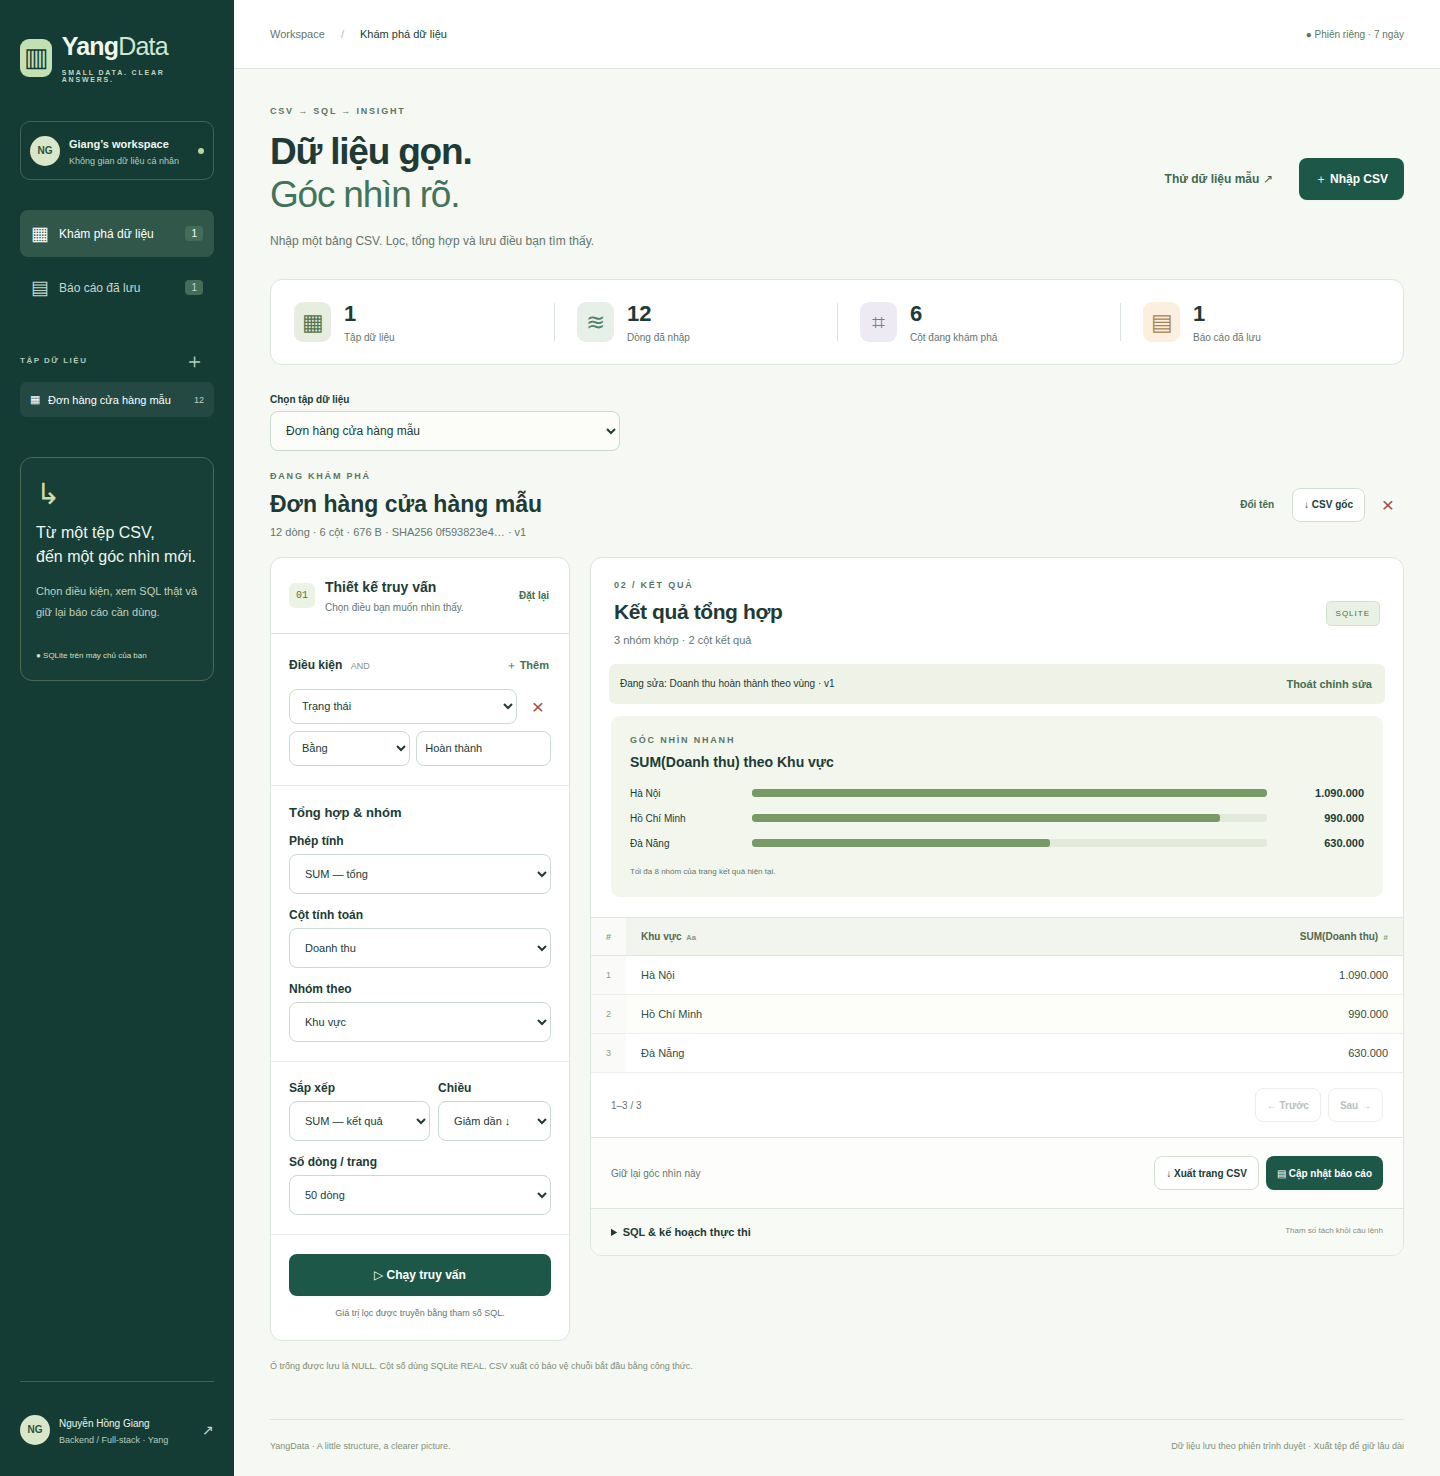
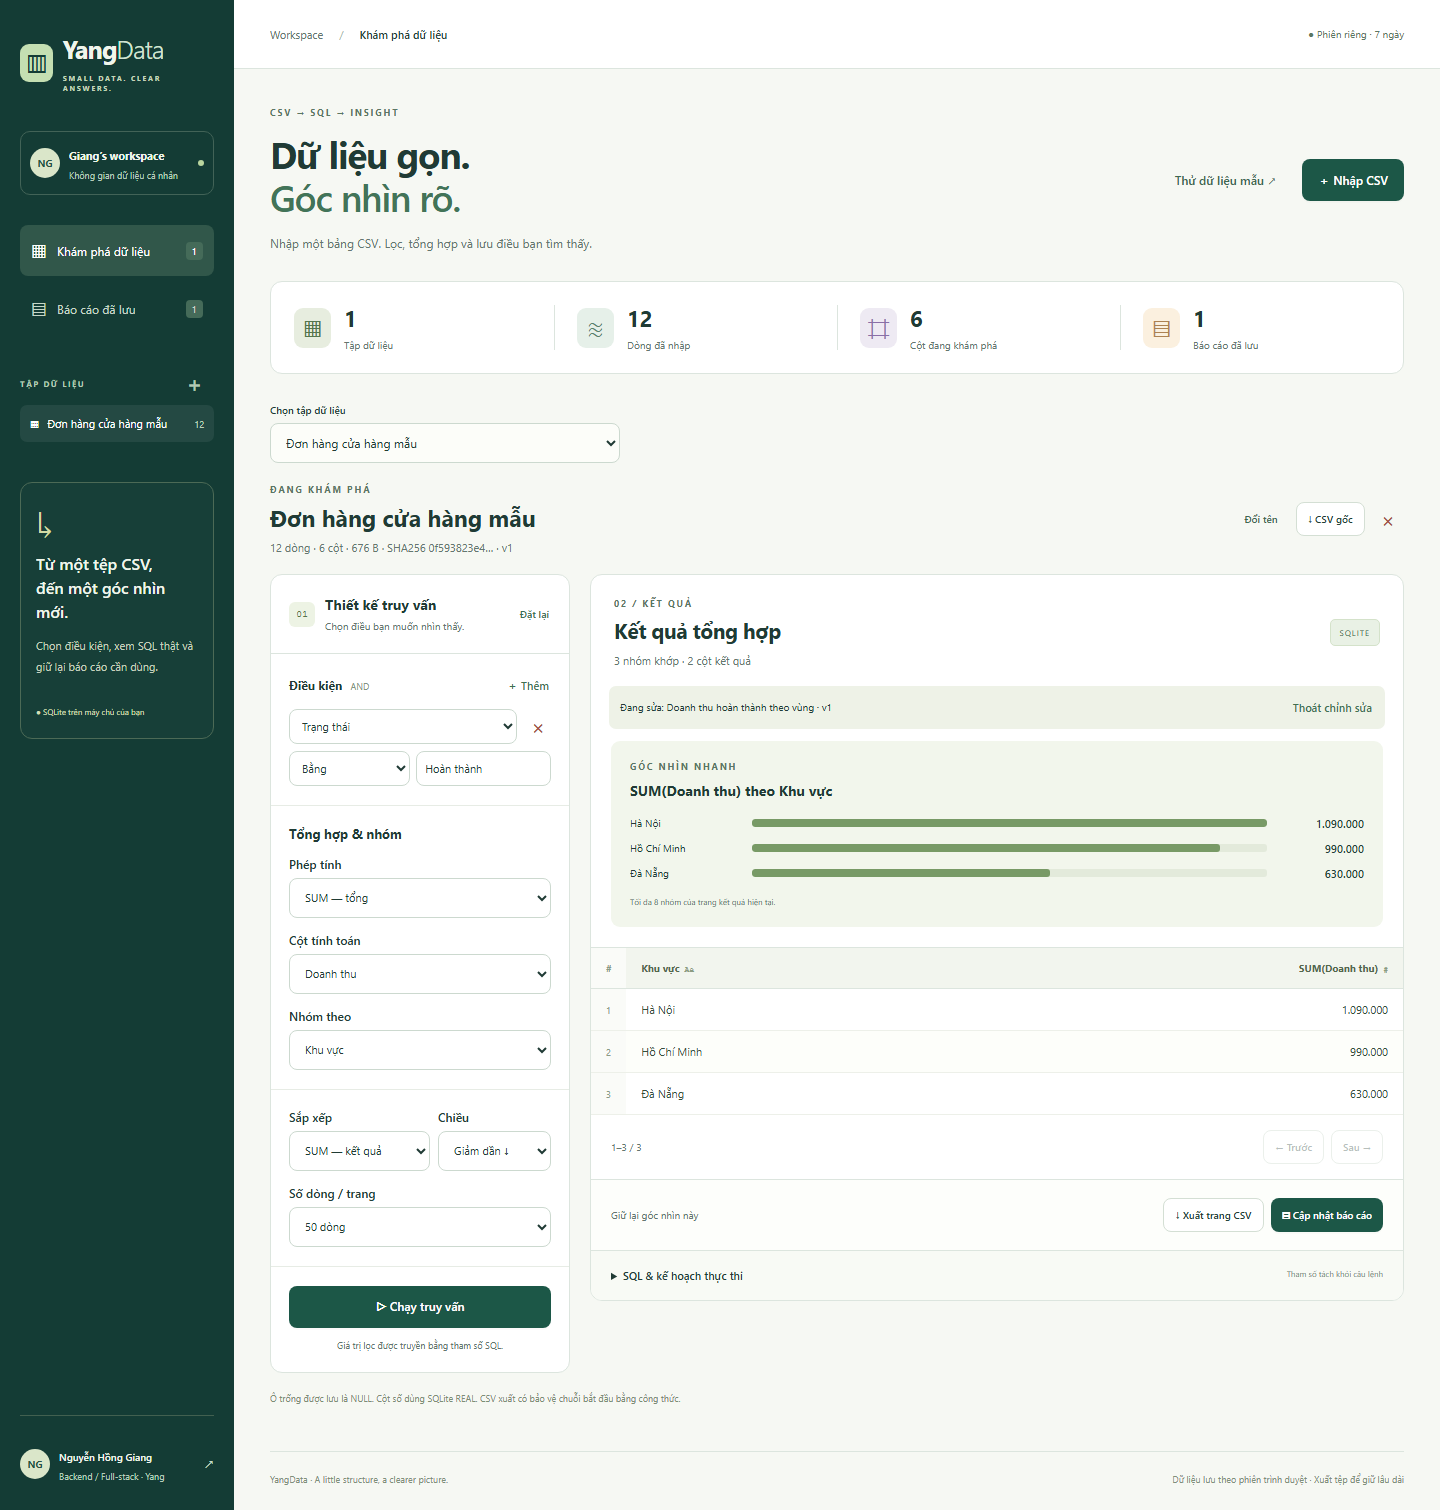
docs: extract standalone repository with preserved source history

diff --git a/docs/repository-migration.md b/docs/repository-migration.md
@@ -1,0 +1,70 @@
+# Repository migration — 04/11/2026
+
+## Source and destination
+
+- Source repository: [nguyenhonggiang2407/DTDD](https://github.com/nguyenhonggiang2407/DTDD).
+- Source branch: [`yangdata`](https://github.com/nguyenhonggiang2407/DTDD/tree/yangdata).
+- Source commit: [`587b812b5f74e5501e5acbcf45d17c10811d2389`](https://github.com/nguyenhonggiang2407/DTDD/commit/587b812b5f74e5501e5acbcf45d17c10811d2389).
+- Source tree: `9373ff46a668c5a73eb176bc2a118616a4bffc1c`; nine reachable commits before migration.
+- Destination: [nguyenhonggiang2407/YangData](https://github.com/nguyenhonggiang2407/YangData), branch `main`.
+
+The extraction used `git clone --single-branch --branch yangdata`, with complete
+reachable history rather than a shallow clone. The local branch was renamed to
+`main`, and the source remote to `upstream`. No source branch, commit, data or
+repository was deleted or rewritten. Publishing uses an ordinary push to the new
+repository; the original DTDD branch remains available.
+
+## Preservation and migration changes
+
+The source commit remains an ancestor. Its original commit objects, authors,
+dates and messages are retained. Before committing migration work, `git diff`
+confirmed no change in `lib/`, `public/`, `test/`, `server.mjs`, dependency manifests,
+Dockerfile, Compose, LICENSE, NOTICE or `upstream/`.
+
+The MIT license blob remains `84ee68d33c9b68bae6c139f591996f021a02b23a` and NOTICE
+remains `9d6b7aaf839f30b3cdcca827d24cdf5ea37172c1`. The original patchy631 attribution,
+reference snapshot and preserved SQL-tool reference are unchanged. Read [NOTICE](../NOTICE.md)
+for the distinction between reference material and YangData implementation.
+
+Migration changes are limited to README clone/current-repository and CI links,
+workflow branch filters targeting `main`, this record and screenshots from browser
+verification. Historical/source-proof links continue to point to their original
+location. The README documents the same query grammar, database and limits.
+The existing CI retains backend, browser, Docker health and screenshot checks.
+
+History can be checked after publication:
+
+```sh
+git merge-base --is-ancestor 587b812b5f74e5501e5acbcf45d17c10811d2389 main
+git cat-file -t 587b812b5f74e5501e5acbcf45d17c10811d2389
+git diff 587b812b5f74e5501e5acbcf45d17c10811d2389 main -- lib public test server.mjs package.json package-lock.json LICENSE NOTICE.md upstream
+```
+
+The first command should return 0; the second should return `commit`; the final
+command should show no business-source, dependency or attribution change from extraction.
+
+## Validation evidence
+
+- Baseline at the exact source SHA: 35 backend/domain/store/HTTP tests passed on
+  Node.js 24.19.0 during the 03/11/2026 audit. They are not rerun here merely for
+  documentation changes; the new repository CI is configured to run them again.
+- In the extracted repository on 04/11/2026, `npm ci` succeeded and reported zero
+  dependency advisories at installation time.
+- `npm run test:ui` passed all six Chromium tests against the real local server and
+  in-memory SQLite: filter/grouped SQL/saved report/export; CSV types and safe rendering;
+  invalid CSV/UTF-8; late responses; pagination and cascade; mobile workflow at 390 px.
+- The test regenerated `desktop.png`, `mobile.png`, `query-plan.png` and `reports.png`
+  in `docs/screenshots/`. These are captures of the running app with fictional sample
+  data; desktop and mobile layouts were visually inspected. No screenshot or query
+  output was synthesized.
+- `git diff --check`, changed-file formatting and source/history preservation checks
+  were performed before the migration commit.
+
+Docker is not available through PATH or the checked Docker Desktop/Rancher Desktop
+locations in this session, so no local Docker build/run is claimed. The new GitHub
+Actions run and Docker smoke test must be inspected after the destination is published;
+they had not run in that repository when this migration record was prepared.
+
+There is no verified public deployment for YangData. It remains a private workspace
+with the same cookie expiry, approximate SQLite REAL numbers, query quotas and
+single-process limits documented in the README. Migration does not add billing or hosting.

diff --git a/README.md b/README.md
@@ -1,20 +1,22 @@
 # YangData · Small data, clear answers
 
-[![YangData checks](https://github.com/nguyenhonggiang2407/DTDD/actions/workflows/ci.yml/badge.svg?branch=yangdata)](https://github.com/nguyenhonggiang2407/DTDD/actions?query=branch%3Ayangdata)
+[![YangData checks](https://github.com/nguyenhonggiang2407/YangData/actions/workflows/ci.yml/badge.svg?branch=main)](https://github.com/nguyenhonggiang2407/YangData/actions/workflows/ci.yml)
 
 **Nhập CSV → đặt điều kiện → xem SQL thật → lưu báo cáo → xuất kết quả.**
 
 Ứng dụng thực hành Backend / Full-stack của **Nguyễn Hồng Giang (Yang)**. Node.js 24, SQLite và JavaScript thuần; không cần API key hay dịch vụ mô hình.
 
-> Nhánh **yangdata** chứa một ứng dụng độc lập. Nhánh mặc định của DTDD là YangCareer; chọn đúng nhánh khi tải hoặc xem mã. Ứng dụng chưa được triển khai thành website công khai.
+Repository độc lập này được tách từ nhánh **yangdata** của DTDD, giữ nguyên lịch sử
+commit và thông báo nguồn. [Hồ sơ chuyển repository](docs/repository-migration.md)
+ghi source commit, kiểm tra và giới hạn của đợt chuyển. Ứng dụng chưa có website công khai.
 
 ![YangData desktop](docs/screenshots/desktop.png)
 
 ## Chạy thử
 
 ```sh
-git clone --branch yangdata --single-branch https://github.com/nguyenhonggiang2407/DTDD.git yangdata
-cd yangdata
+git clone https://github.com/nguyenhonggiang2407/YangData.git
+cd YangData
 npm ci
 npm start
 ```
